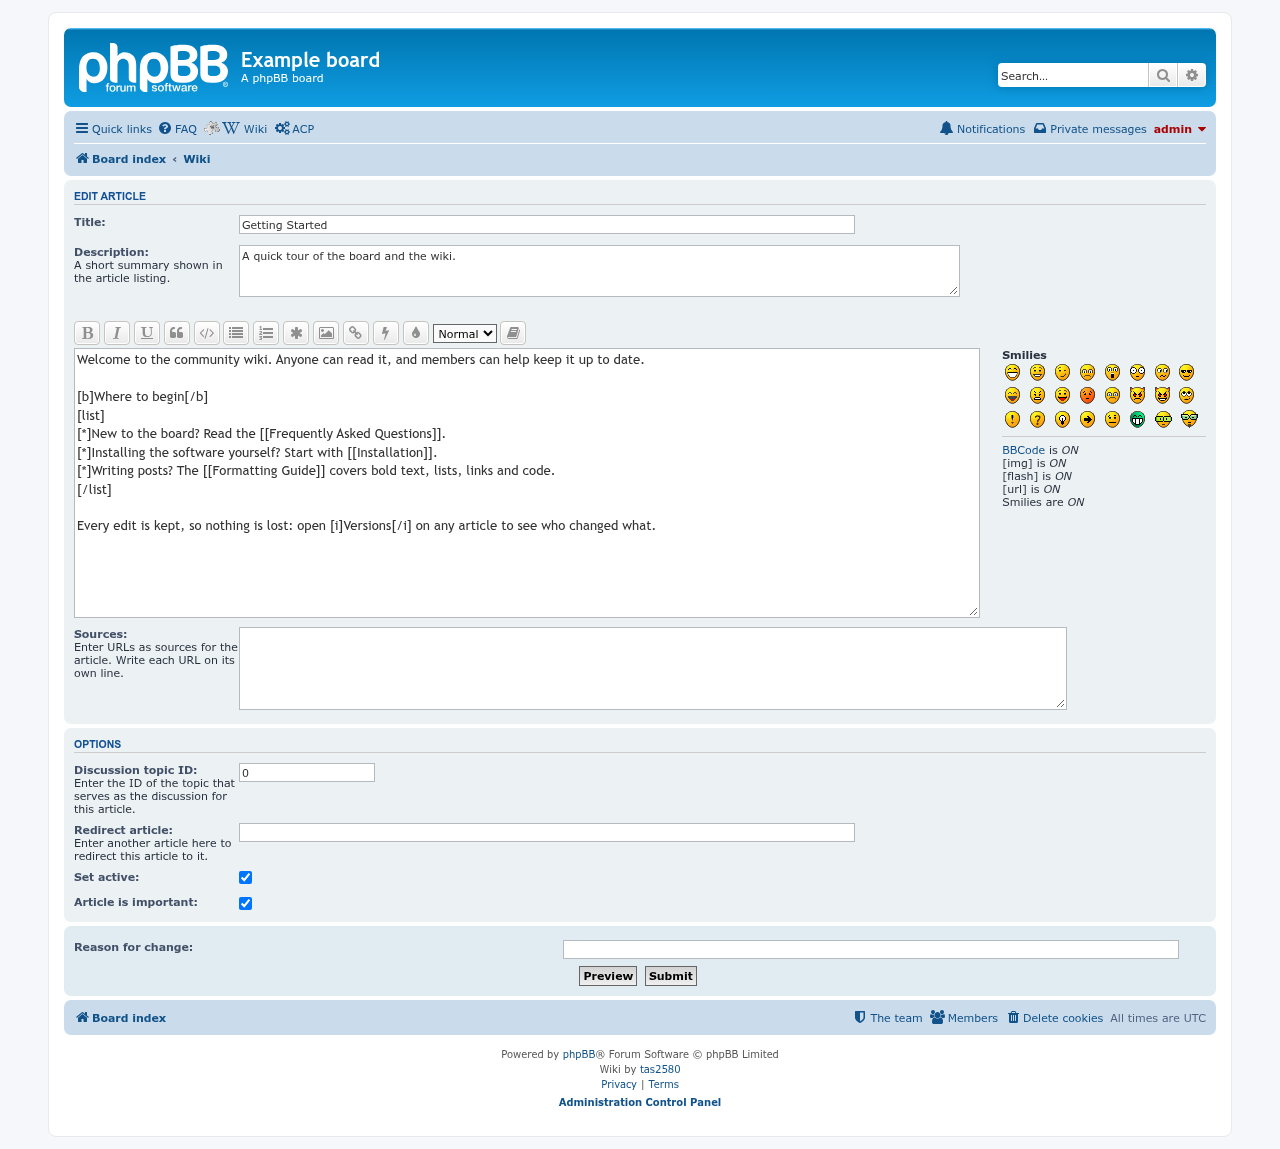
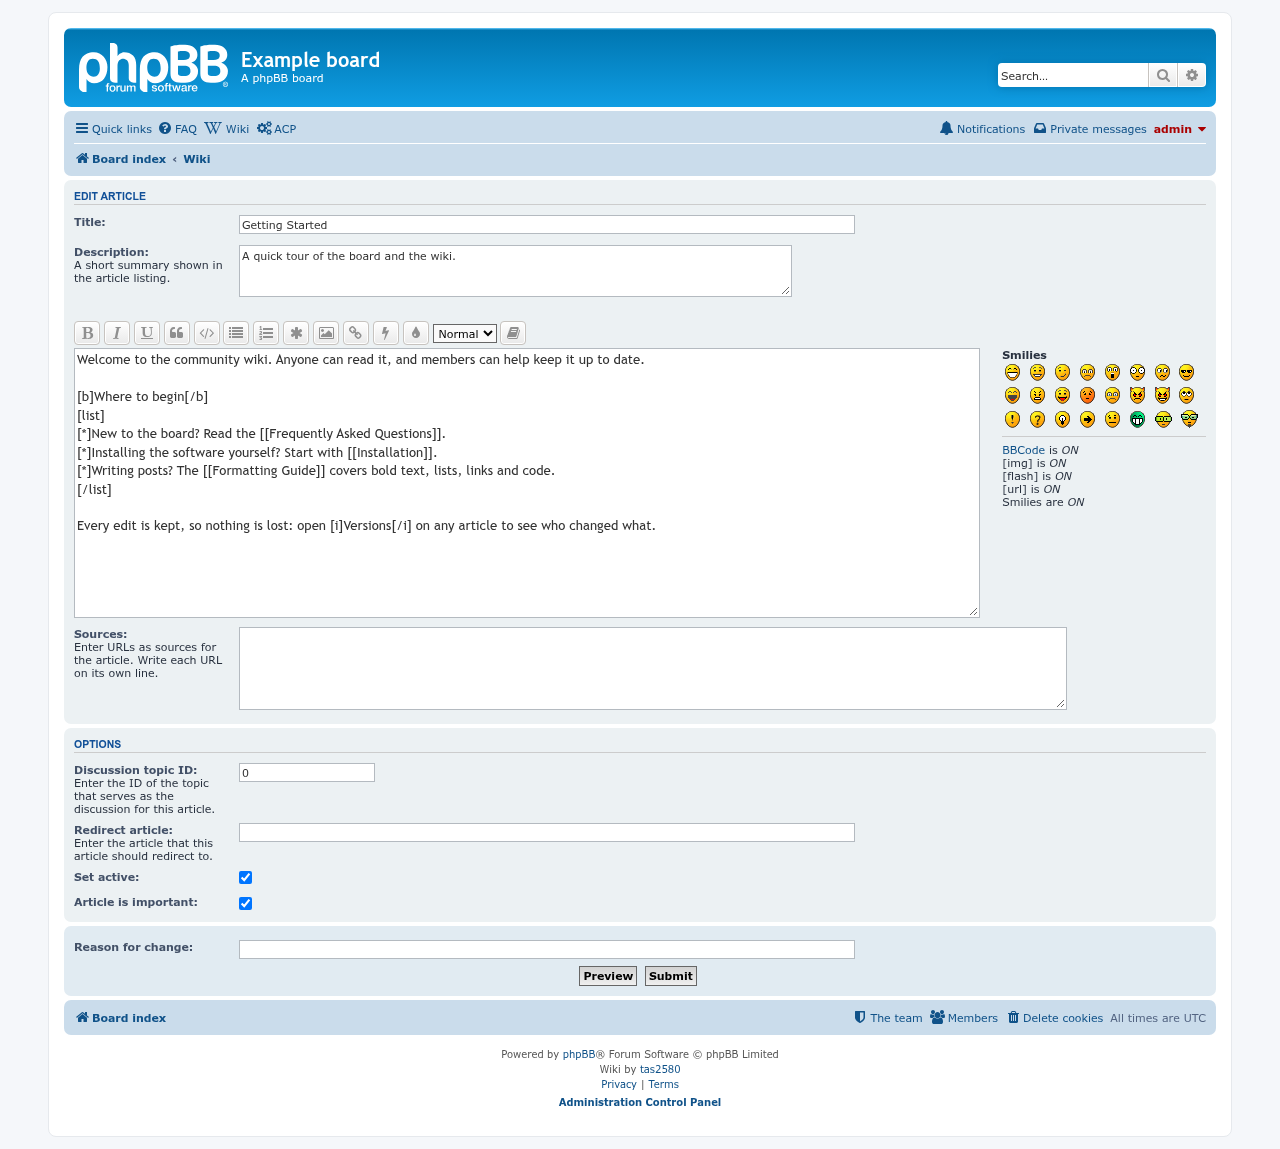
Retake the screenshots, and add the move form and the templates and categories pages
Retaken with phpbb-test-board/screenshots.py: the compare is now the
readable view of a pending edit, and the version history shows the
Restore links and the Move entry in the moderator controls. New:
wiki-move, wiki-templates and wiki-categories, for the Screenshots wiki
page, which the README now links to.

diff --git a/README.md b/README.md
@@ -39,15 +39,19 @@ A wiki for phpBB with version history, side-by-side compare, and a moderation qu
 |---|---|
 | [![Edit form](docs/images/wiki-edit.png)](docs/images/wiki-edit.png) | [![Pending articles awaiting approval](docs/images/wiki-pending-articles.png)](docs/images/wiki-pending-articles.png) |
 
-Approving or disapproving a pending edit shows a diff against the currently
-active version:
+Comparing the live version with a pending edit shows, in the readable view,
+what the edit changes, with buttons to approve or disapprove it:
 
-[![Version diff with approve/disapprove actions](docs/images/wiki-compare.png)](docs/images/wiki-compare.png)
+[![Readable compare of a pending edit, with approve and disapprove buttons](docs/images/wiki-compare.png)](docs/images/wiki-compare.png)
 
-The version history page also has a "Moderator controls" dropdown for taking
-an active article offline or deleting it entirely:
+The version history page has a Restore link for each older version, and a
+"Moderator controls" dropdown for taking an article offline, moving it to a new
+name, or deleting it entirely:
 
-[![Moderator controls dropdown: set article inactive, delete article](docs/images/wiki-moderator-controls.png)](docs/images/wiki-moderator-controls.png)
+[![Version history with Restore links, and the moderator controls: set article inactive, move article, delete article](docs/images/wiki-moderator-controls.png)](docs/images/wiki-moderator-controls.png)
+
+More screenshots, including the templates and categories pages and the move
+form, are on the [Screenshots](https://github.com/phpbbmodders/phpbb-ext-wiki/wiki/Screenshots) wiki page.
 
 ## Templates
 
